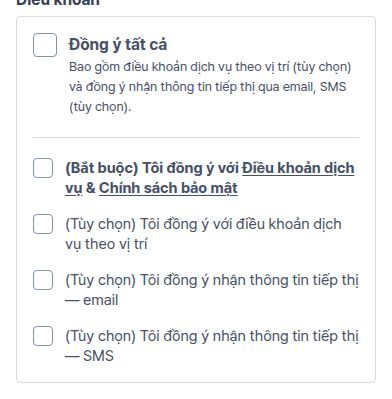
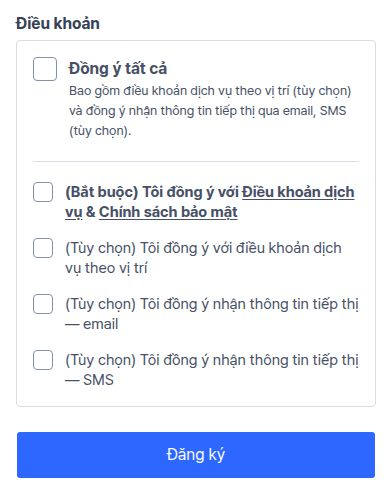
fix(jobseeker-guide): the terms screenshot was cut off at the top
Element crops took the viewport-relative bounding box as a page-relative
clip, so any crop below the fold landed one scroll-length too high — the
terms block lost its "Điều khoản" heading. shoot.cjs now adds the scroll
offset and can crop to the union of several elements; the terms shot spans
the heading, the box and the Đăng ký button. The other element crops are
recaptured with the fix.

Claude-Session: https://claude.ai/code/session_01NbYZPGDBSE2dvKmHRgYxNb

diff --git a/jobseeker-guide/src/data/shots.ts b/jobseeker-guide/src/data/shots.ts
@@ -23,7 +23,7 @@ export const SHOTS: Record<string, Shot[]> = {
     s('acc-password', 'Mật khẩu — danh sách 4 điều kiện sáng dần khi gõ'),
     s('acc-phone-otp', 'Số điện thoại — sau khi bấm Xác thực: ô nhập mã và đồng hồ đếm ngược'),
     s('acc-phone-verified', 'Số điện thoại — đã xác thực, nút đổi thành Đổi số'),
-    s('acc-terms', 'Khối Điều khoản: Đồng ý tất cả, 1 ô bắt buộc, 3 ô tuỳ chọn'),
+    s('acc-terms', 'Khối Điều khoản: Đồng ý tất cả, 1 ô bắt buộc, 3 ô tuỳ chọn, và nút Đăng ký'),
   ],
   'dang-ky-nuoc-ngoai': [s('acc-abroad', 'Tick Tôi đang ở nước ngoài — ô Email có nút Xác thực')],
   'dang-ky-mxh': [s('acc-complete-signup', 'Hoàn tất đăng ký sau khi đăng nhập bằng mạng xã hội')],
